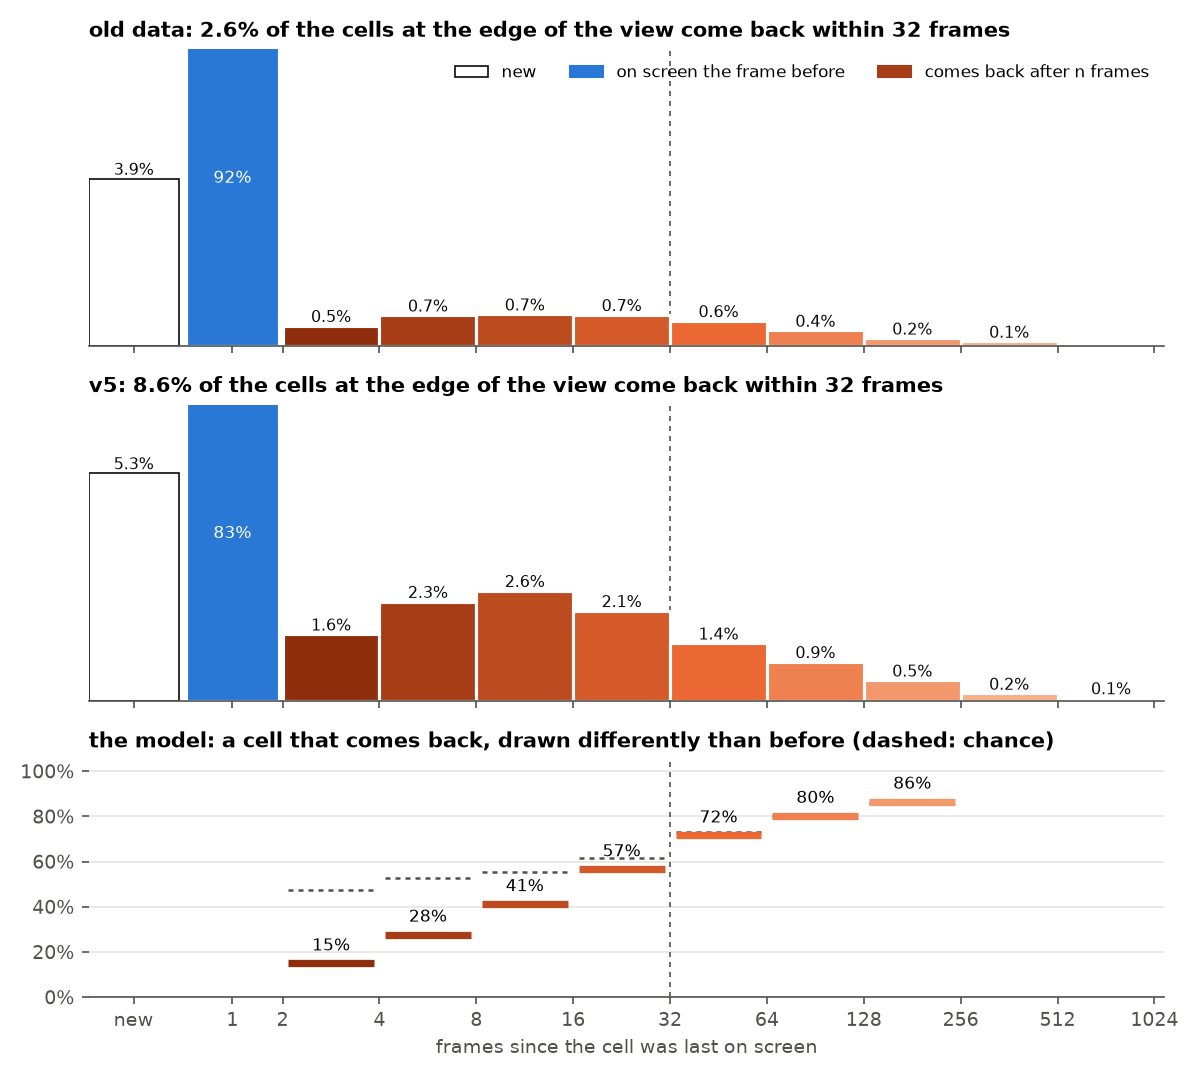
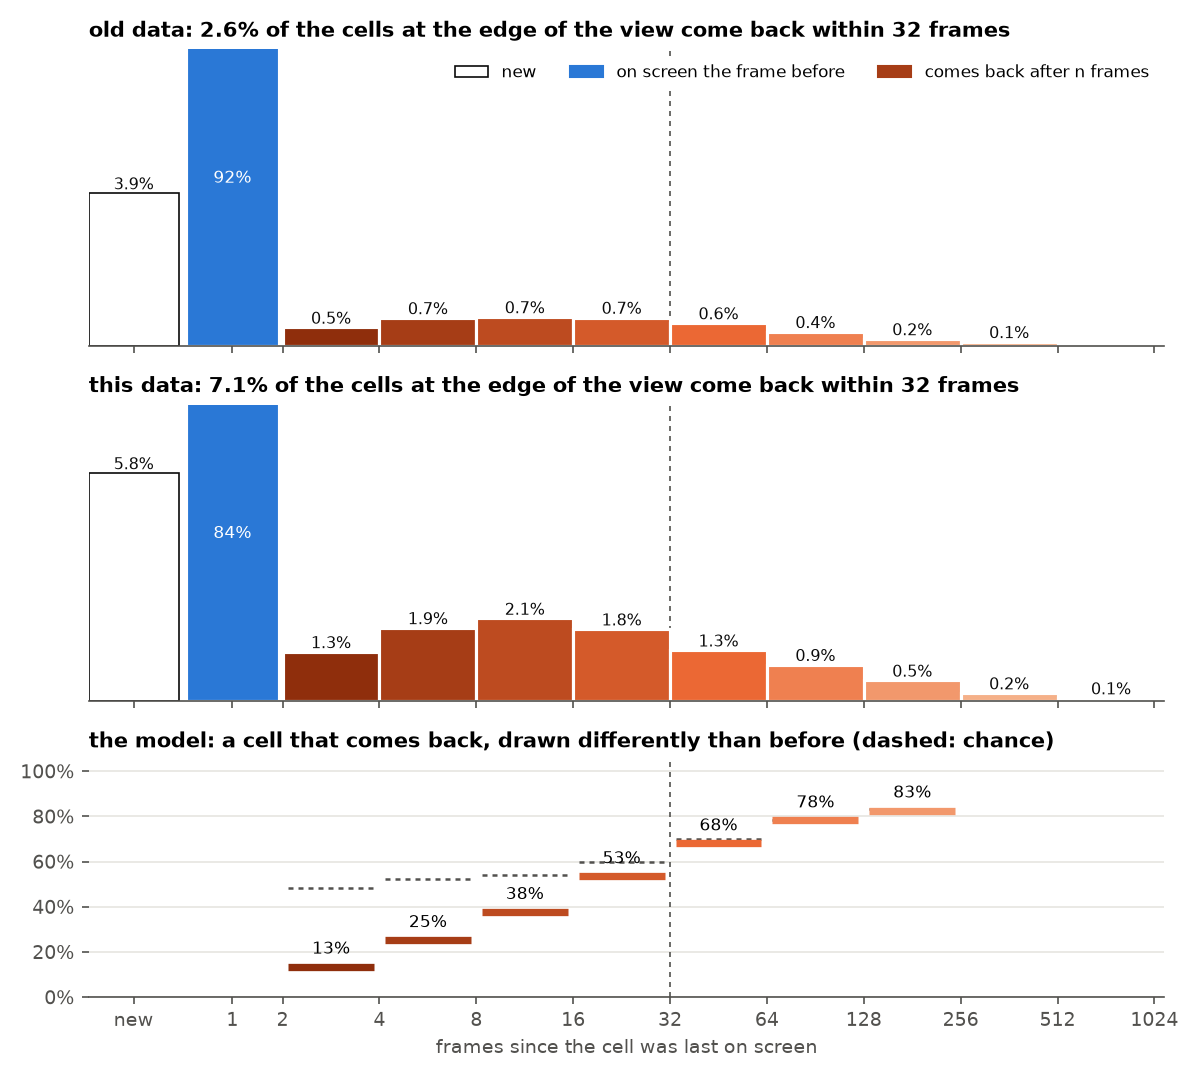
readme dataset: the final data against the old 500k (deaths 802, lava 119 against 9, diamonds 316 against 106, sword first in 67% instead of all), work kept in daylight, a game-events figure, the border-cell figure with the final iteration 3; the same recipes on an earlier build score higher, mostly

diff --git a/README.md b/README.md
@@ -127,19 +127,28 @@ Details, the model interface and how to submit: [program.md](program.md).
 A world model learns the habits of the agents that made its data as if they were rules of the game: if the sword always comes first, it makes a sword when asked for an iron pickaxe; if iron tools always follow place furnace, it makes them whenever the last action was place furnace.
 So four RL agents play (a pixel PPO agent fine-tuned for diamonds drives most episodes), and a behaviour schedule makes their play more varied:
 
-- **Counterexamples to shortcuts:** iron pickaxes made with no sword, crafts at an old furnace, presses that fail (no table, no furnace, a missing ingredient, the wrong pickaxe), repeat placements.
-- **Deaths of every kind:** 857 in all, by zombies, skeletons, lava, thirst, starvation and exhaustion, some as whole episodes.
-- **Diamonds:** 269 first diamonds, some as a whole game from the start to the diamond.
+- **Counterexamples to shortcuts:** iron pickaxes made with no sword, crafts at an old furnace, presses that fail (no table, no furnace, a missing ingredient, the wrong pickaxe), repeat placements. The iron sword comes before the iron pickaxe in 67% of the pieces that make both; in the old data, in 190 of 190 episodes.
+- **Deaths of every kind:** 802 in all, by zombies, skeletons, lava (119; the old data had 9), thirst, starvation and exhaustion, some as whole episodes.
+- **Diamonds:** 316 (the old data had 106), 281 of them the first of an episode, some as a whole game from the start to the diamond.
 - **Return trips** for memory: about every third step of free play the agent peeks a few tiles away and back, or walks a loop of 4 to 63 tiles, so places leave the view and come back.
+- **Work in daylight:** chopping, mining, placing and crafting that work count as events too, mostly by day, so the trips do not push the work into the night.
 
 Pieces are cut only at quiet moments, never on a reward or an inventory change, and chosen so that events, not frames, are balanced; the cells that come back into view count as events too. The code is in [collect/](collect/).
+
+<p align="center">
+  <img src="docs/assets/logic_data.png" alt="Game events per 500k transitions in the old data and in this data, on a log scale, and how the frames are spent" width="640">
+</p>
+
+<p align="center"><sub>Old data and this data, per 500k transitions. Stone and iron tools are made 3-5x as often and diamonds 3x; presses that do nothing fell from a third of the frames to 4%, and the agent moves in 56% of the frames instead of 27%.</sub></p>
 
 <p align="center">
   <img src="docs/assets/border_cells.png" alt="Cells entering the view at its edge, by frames since they were last on screen, in the old data and in this data, and how often iteration 3 draws a returning cell differently than before" width="760">
 </p>
 
-<p align="center"><sub>Top two: the cells that enter the view at its edge, by how many frames ago they were last on screen. In this data 3x more of them come back within 32 frames, so memory can be learned and measured.
-Bottom: iteration 3 draws a cell that comes back after a few frames mostly as before, and one that comes back after 16+ frames no better than chance.</sub></p>
+<p align="center"><sub>Top two: the cells that enter the view at its edge, by how many frames ago they were last on screen. In this data 2.7x as many come back within 32 frames (7.1% against 2.6%), so memory can be learned and measured.
+Bottom: iteration 3 draws a cell that comes back after a few frames mostly the way it drew it before; from 32 frames on, no better than chance.</sub></p>
+
+On an earlier build of this data, with fewer return trips, the same three recipes score higher (0.338, 0.484 and 0.508), mostly on game logic. On this data they recall more: the recall half of memory is 0.133 for iteration 3, against 0.105 there.
 
 ## Evaluation
 
